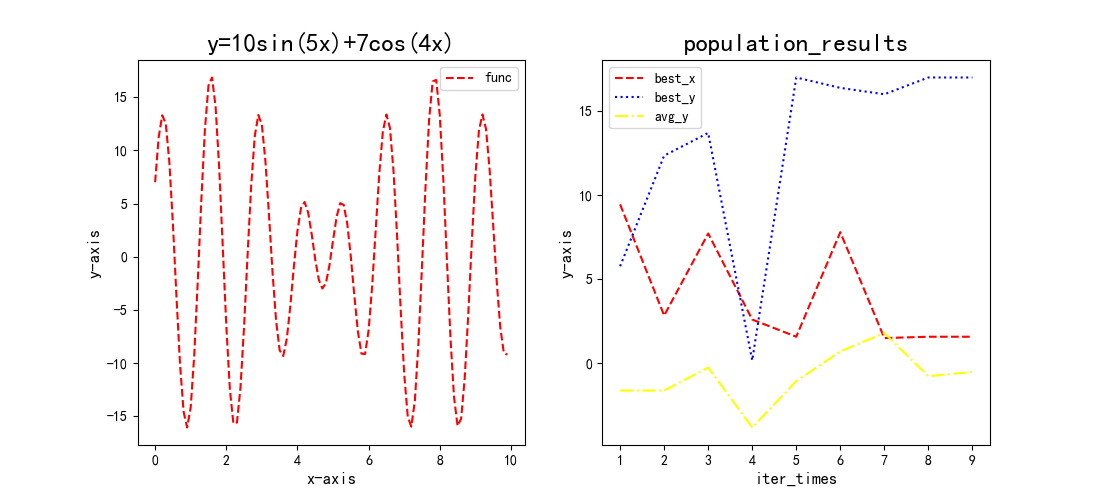
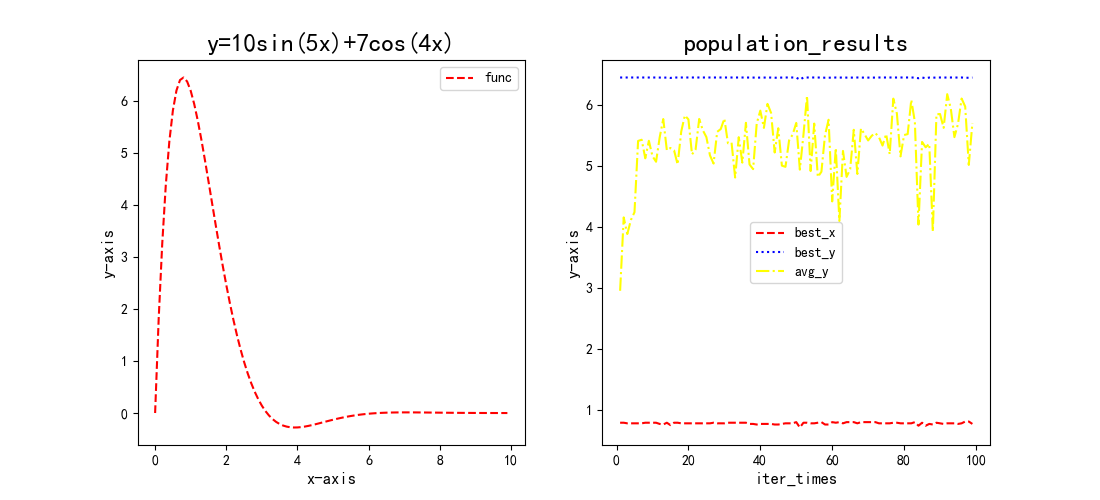
修正了种群数量指数级增长的问题

diff --git a/function.py b/function.py
@@ -54,8 +54,8 @@ def evaluate(pop_chroms, func, chrom_length, gene_min=0, gene_max=10):
     return pop_chroms_ture, population_values
 
 
-# 繁衍 适应度越高 后代数量多的概率更大 轮盘赌筛选
-def select(pop_chroms, population_values, elimination_rate, elimination_prob):
+# 繁衍 适应度越高 后代数量多的概率更大 轮盘赌筛选 种群数量不变！
+def select(pop_chroms, population_values, population_size):
     # # 淘汰
     # # TODO: population_values 应该都为正数 OK
     # pop_chroms_ = []
@@ -95,7 +95,7 @@ def select(pop_chroms, population_values, elimination_rate, elimination_prob):
 
     # 轮盘赌加入新个体 成为新种群
     new_pop_chroms = []
-    for i in range(len(pop_chroms)):
+    for i in range(population_size):
         rand_prob = random.random()
         # prob_k < prob < prob_{k+1}
         chrom_selected = bisect(population_sum_probs, rand_prob)
@@ -117,20 +117,27 @@ def crossover_mating(pop_chroms, chrom_length, mating_rate, exchange_rate):
     population_len = len(pop_chroms)
 
     for i in range(population_len):
-        mating_prob = random.random()
-
         # 第i个体交配
-        if mating_prob > mating_rate:
+        if random.random() > mating_rate:
             child1 = pop_chroms[i]  # female
             child2 = pop_chroms[random.randint(0, population_len - 1)]  # male
 
-            # 两个子代的基因交换
-            for j in range(chrom_length):
-                exchange_prob = random.random()
+            gene_min = random.randint(0, chrom_length - 1)
+            gene_max = random.randint(0, chrom_length - 1)
+            if gene_max < gene_min:
+                gene_min, gene_max = gene_max, gene_min
 
-                # 第j处基因交换
-                if exchange_prob > exchange_rate:
-                    child1[j], child2[j] = child2[j], child1[j]
+            # 两个子代的基因交换
+            for j in range(gene_min, gene_max + 1):
+                child1[j], child2[j] = child2[j], child1[j]
+
+            # # 两个子代的基因交换
+            # for j in range(chrom_length):
+            #     exchange_prob = random.random()
+            #
+            #     # 第j处基因交换
+            #     if exchange_prob > exchange_rate:
+            #         child1[j], child2[j] = child2[j], child1[j]
 
             pop_chroms.append(child1)
             pop_chroms.append(child2)
@@ -151,12 +158,21 @@ def mutation(pop_chroms, chrom_length, mutation_rate):
     """
     # 用item不能给list赋值
     for i in range(len(pop_chroms)):
-        for j in range(chrom_length):
-            mutation_prob = random.random()
-            if mutation_prob > mutation_rate:
-                if pop_chroms[i][j] == 1:
-                    pop_chroms[i][j] = 0
-                else:
-                    pop_chroms[i][j] = 1
+        # 单个基因变异
+        if random.random() < mutation_rate:
+            gene_mut = random.randint(0, chrom_length - 1)
+            if pop_chroms[i][gene_mut] == 1:
+                pop_chroms[i][gene_mut] = 0
+            else:
+                pop_chroms[i][gene_mut] = 1
+
+        # # 在染色体内遍历每个基因并判断是否需要变异
+        # for j in range(chrom_length):
+        #     mutation_prob = random.random()
+        #     if mutation_prob > mutation_rate:
+        #         if pop_chroms[i][j] == 1:
+        #             pop_chroms[i][j] = 0
+        #         else:
+        #             pop_chroms[i][j] = 1
 
     return pop_chroms

diff --git a/main.py b/main.py
@@ -1,10 +1,11 @@
 from function import *
 import matplotlib.pyplot as plt
+from tqdm import tqdm, trange
 
-calculate_limit = 10  # 迭代次数
+calculate_limit = 100  # 迭代次数
 
-population_size = 20  # 种群数量
-chrom_length = 7  # 染色体长度
+population_size = 50  # 种群数量
+chrom_length = 10  # 染色体长度
 
 elimination_rate = 0.4  # 多少比例后的个体可能被淘汰
 elimination_prob = 0.5  # 比例内个体被淘汰的概率
@@ -21,8 +22,8 @@ gene_max = 10  # 基因最大值
 
 # 真实函数
 def func(x):
-    return 10 * np.sin(5 * x) + 7 * np.cos(4 * x)
-    # return 20 * np.exp(-x) * np.sin(x)
+    # return 10 * np.sin(5 * x) + 7 * np.cos(4 * x)
+    return 20 * np.exp(-x) * np.sin(x)
 
 
 # 初始化
@@ -34,7 +35,7 @@ best_Y = []
 avg_Y = []
 population_chroms = np.array(chroms_encoding(population_size, chrom_length))
 
-for i in range(calculate_limit):
+for i in trange(calculate_limit):
     # 评估适应度 TODO:加入上下限控制 OK
     population_chroms_ture, population_values = \
         evaluate(population_chroms, func, chrom_length, gene_min, gene_max)
@@ -47,7 +48,7 @@ for i in range(calculate_limit):
 
     # 自然选择：精英淘汰+优等复制
     population_chroms = select(population_chroms, population_values,
-                               elimination_rate, elimination_prob)
+                               population_size)
     # 交配
     population_chroms = crossover_mating(population_chroms, chrom_length,
                                          mating_rate, exchange_rate)

diff --git a/test.py b/test.py
@@ -10,6 +10,7 @@ a1[1] = 10
 print(a1)
 print(a2)
 
+
 def func(x):
     return 10 * np.exp(-x) * np.sin(x)
 
